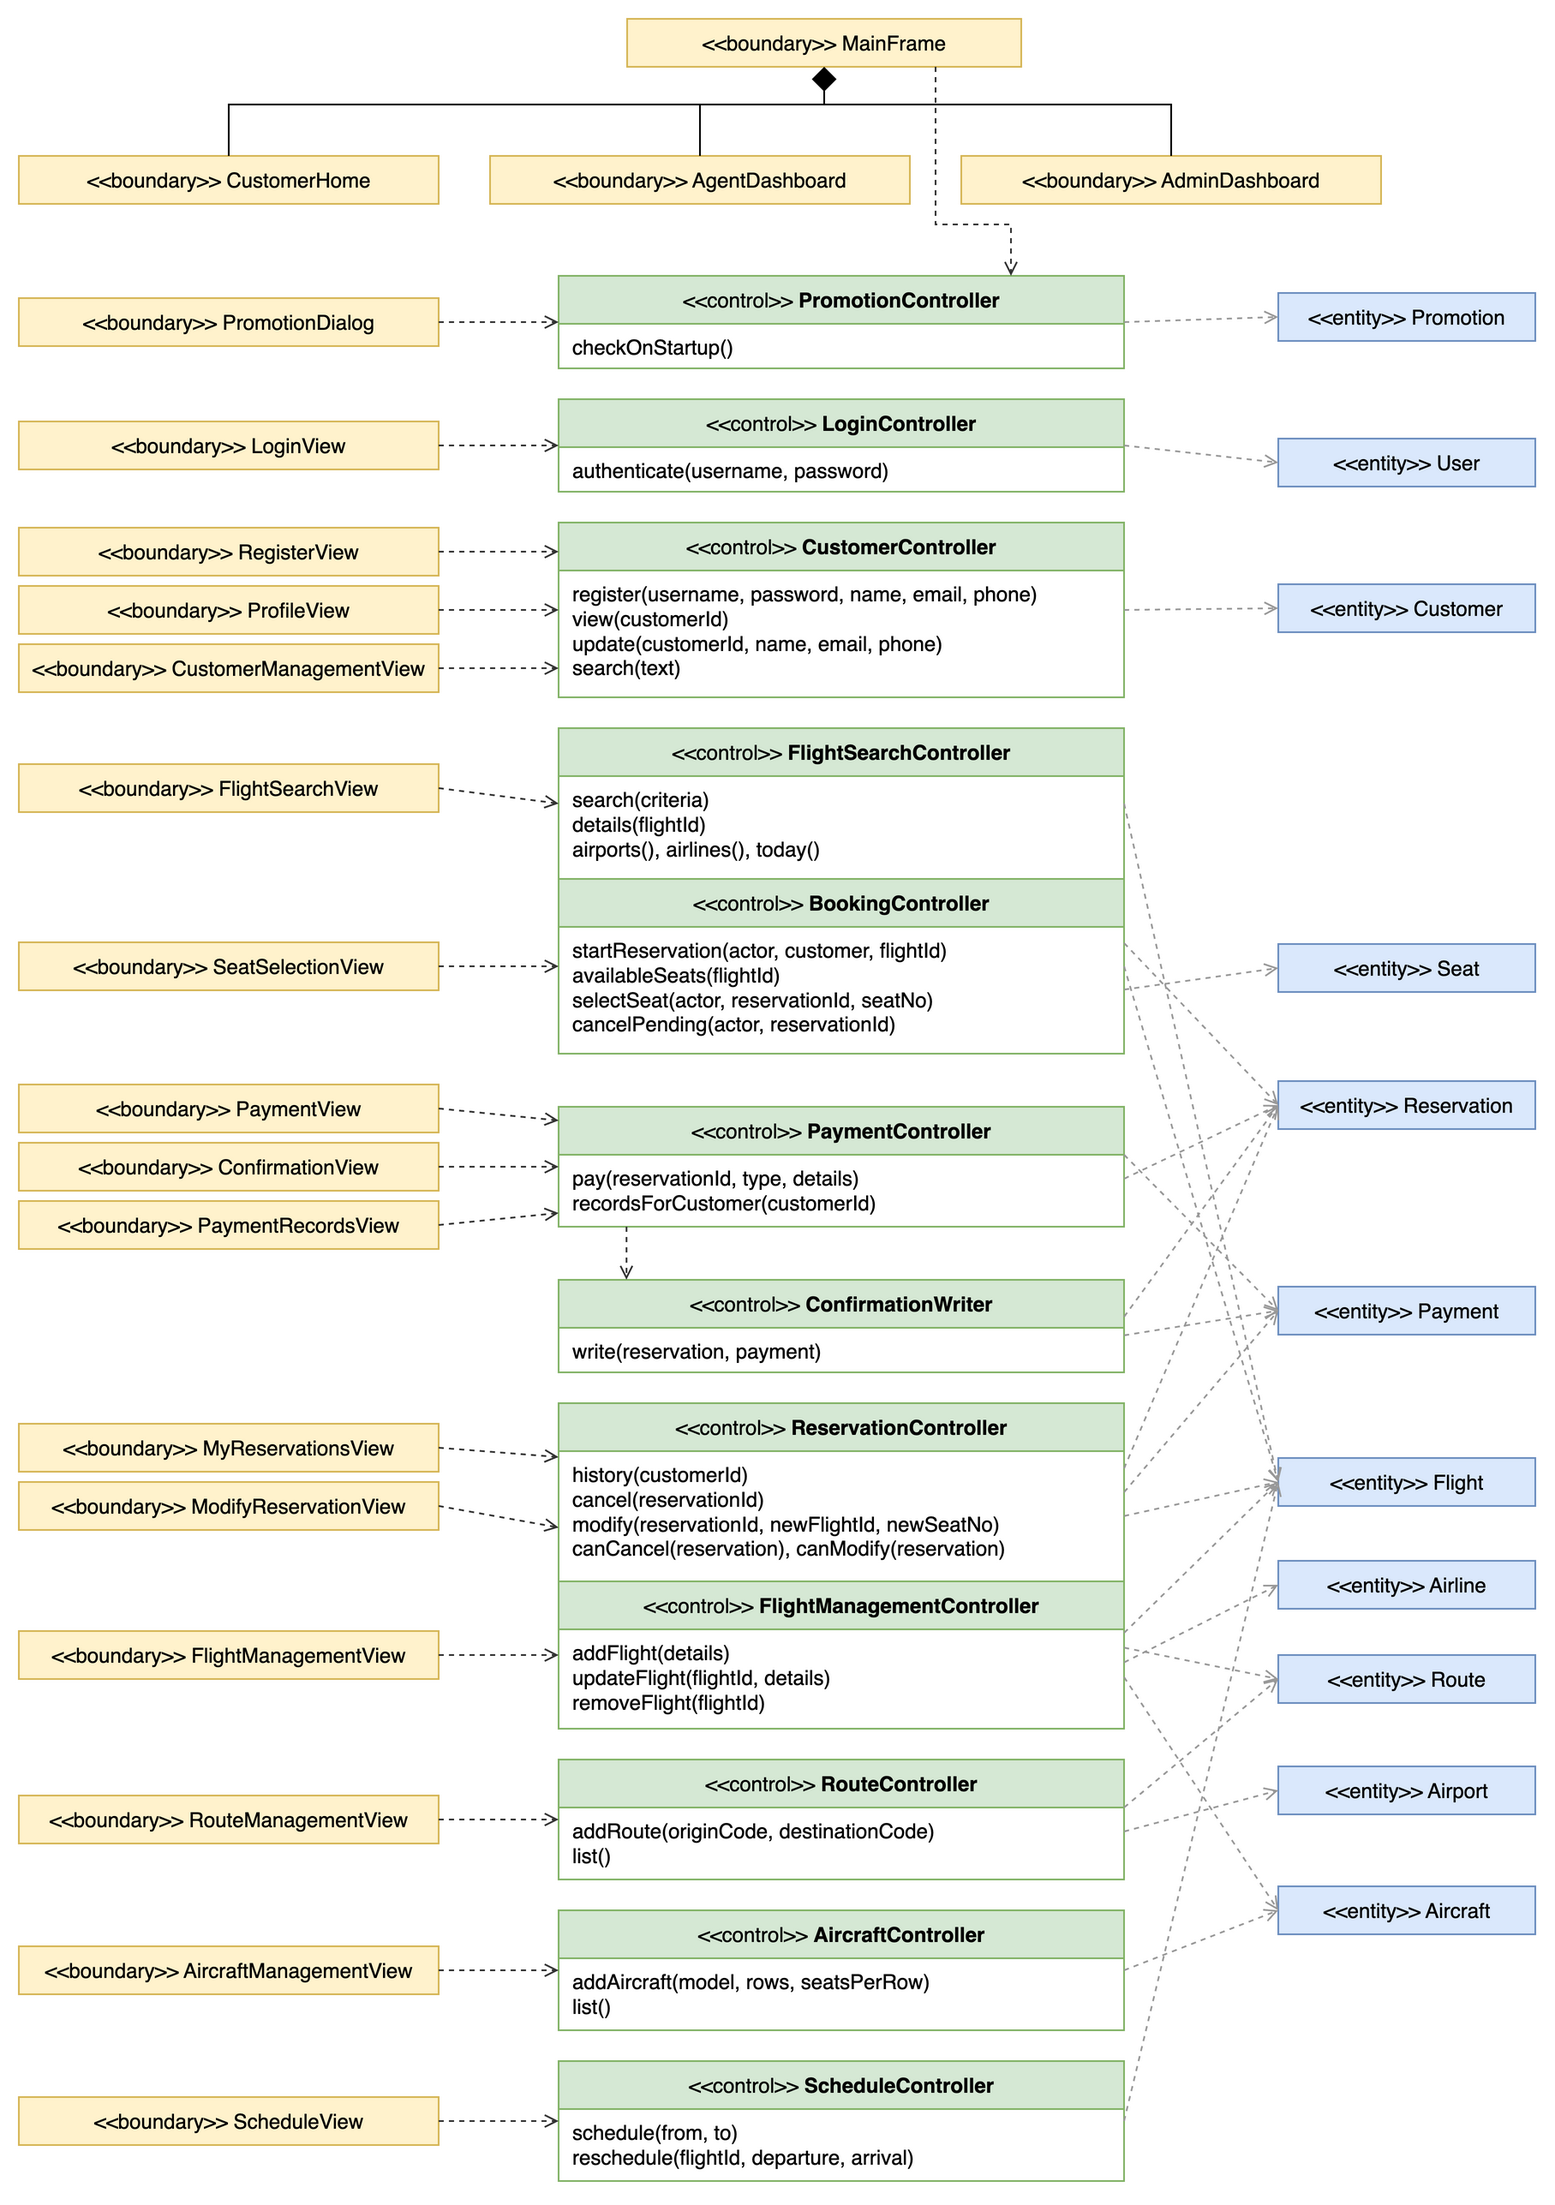
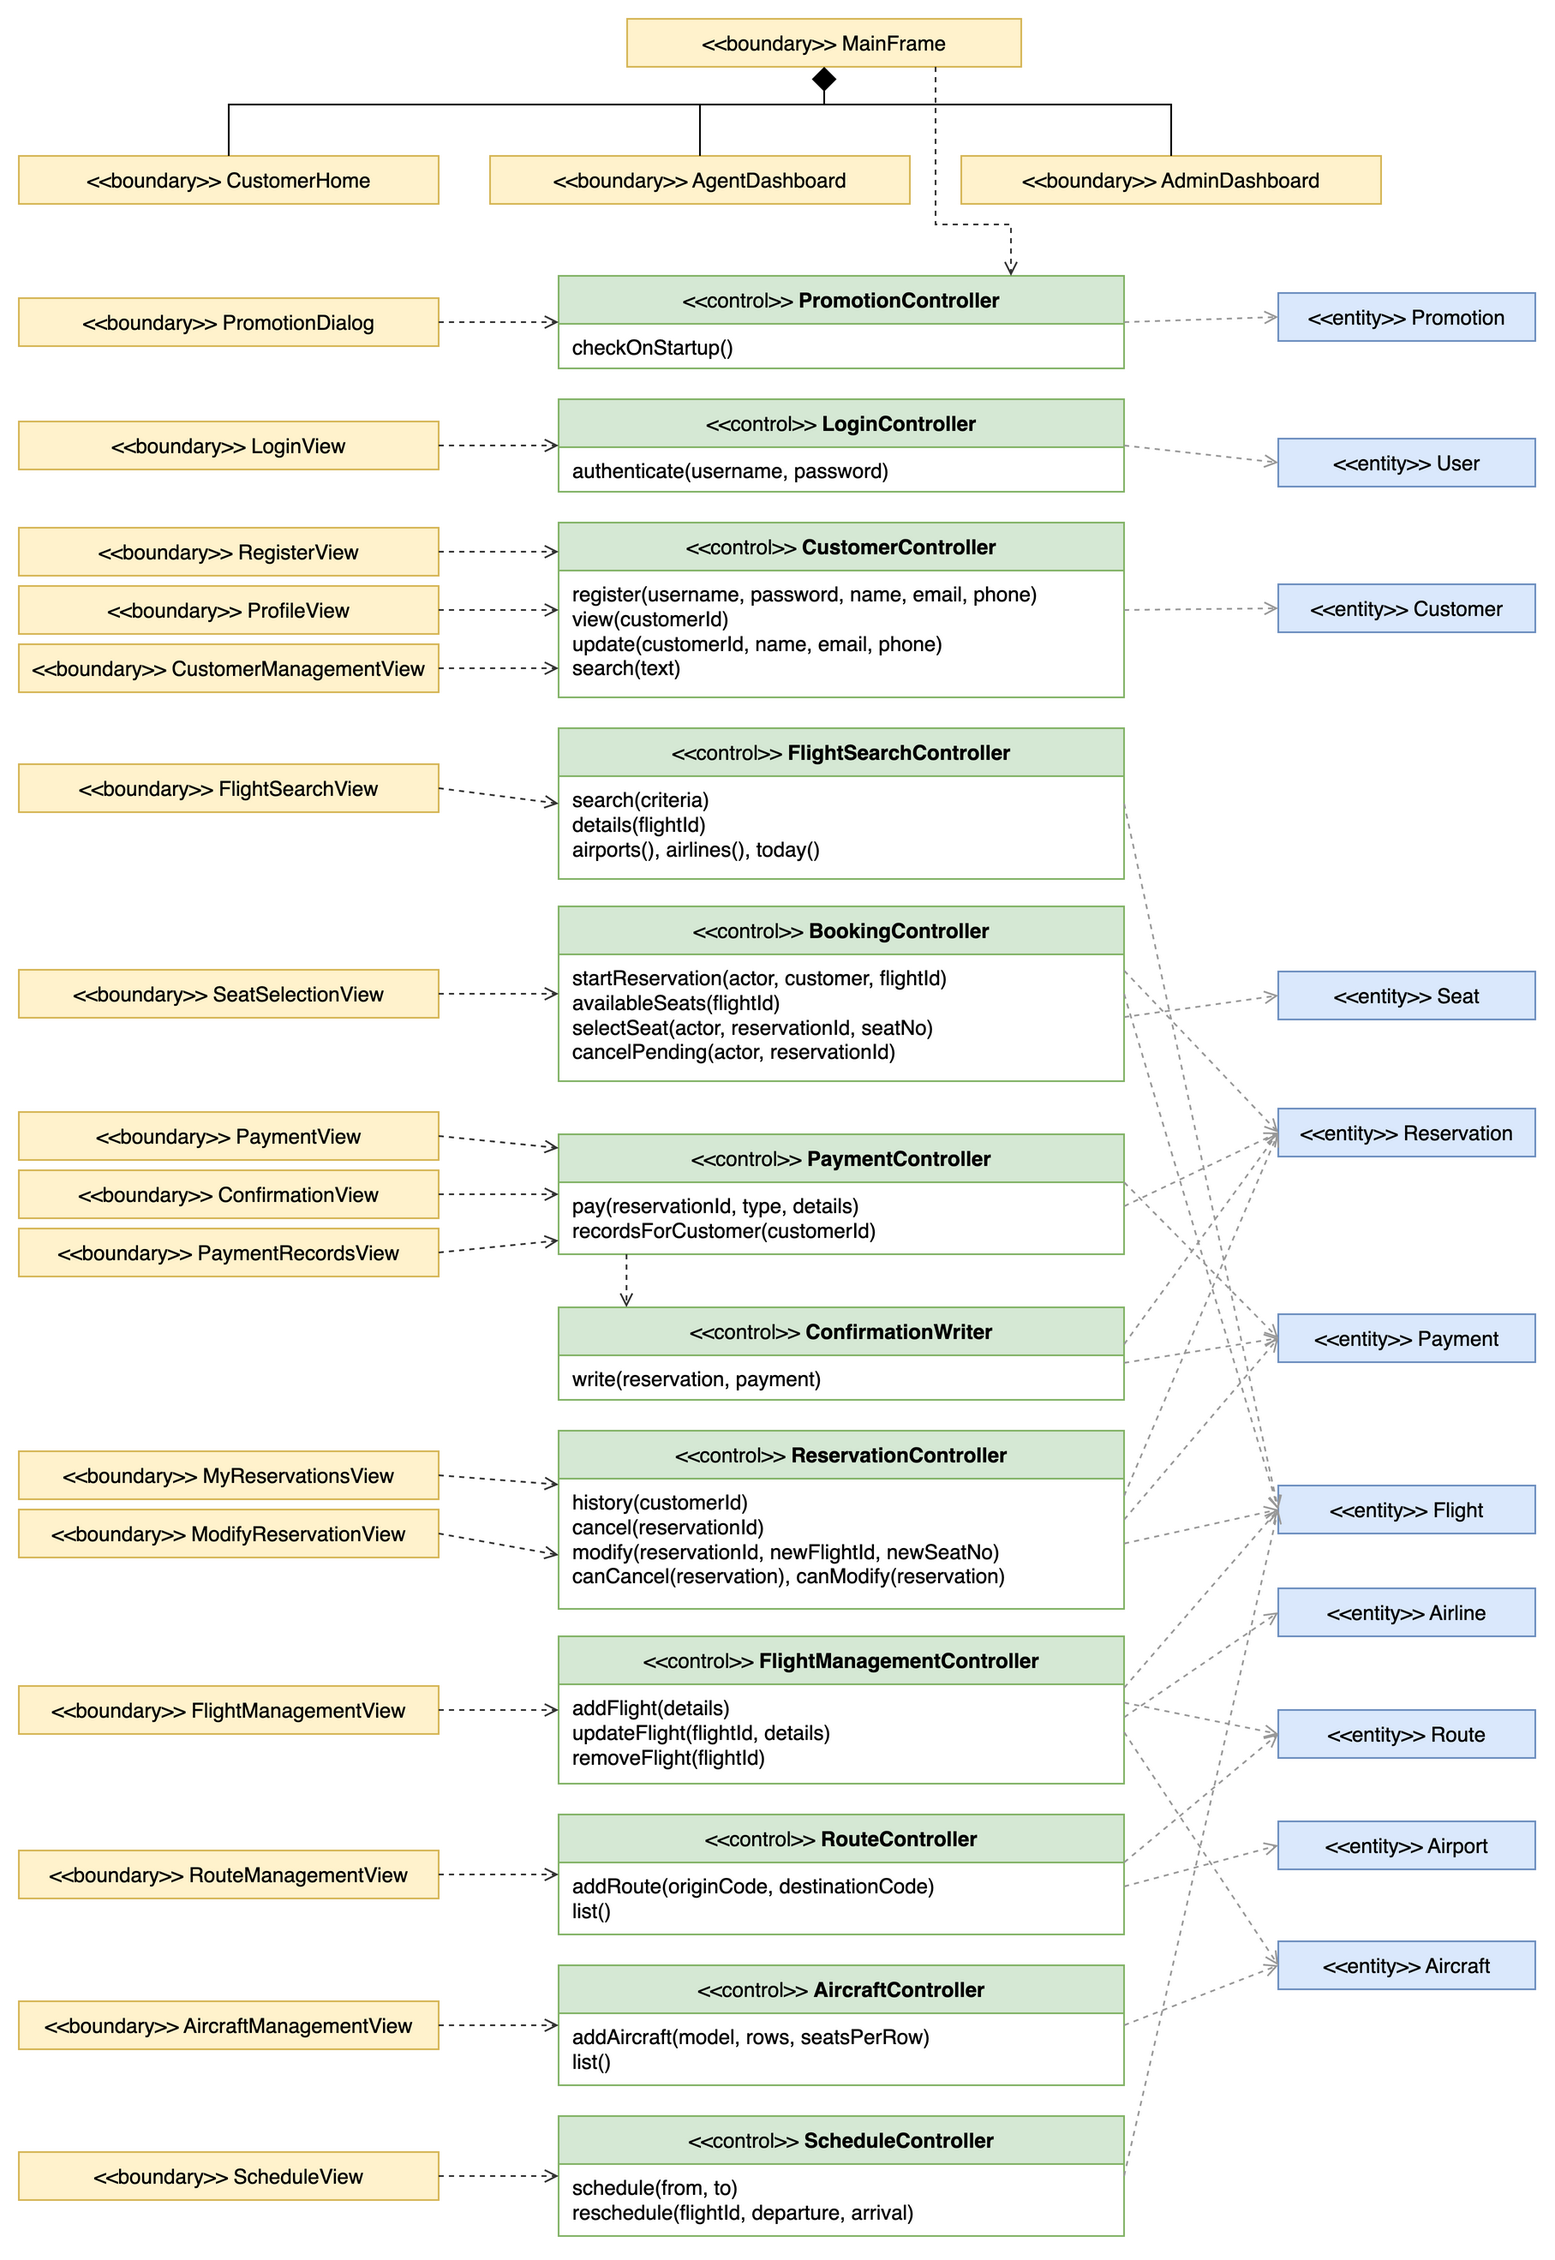
Bring the diagrams, the report and the README in line with the code
Spaced boxes in the control diagram, a clearer remove step, UnitOfWork and a note on public presentation classes in the package diagram, corrected pattern claims, the new operations and classes, and a README that tells how to self-test, build the hand-in and refresh the demo flights.

diff --git a/docs/report/sections/f-class.tex b/docs/report/sections/f-class.tex
@@ -54,7 +54,8 @@ the view (\texttt{enter...}, \texttt{choose...}, \texttt{pick...},
 The first-cut diagrams are refined in two steps: the business layer and the
 data layer. The refinement uses inheritance (the three roles inherit from
 User), realization (interfaces and the classes that implement them),
-composition (a Flight is composed of its Seats) and polymorphism (the
+composition (a Flight is composed of its Seats: they are created with it and deleted with it
+by the database, and the Flight object itself does not hold a list of them) and polymorphism (the
 payment methods and the reservation states), and applies six design patterns.
 The attributes and associations of the entities do not change.
 
@@ -62,8 +63,10 @@ The attributes and associations of the entities do not change.
 
 \begin{description}
 \item[Singleton.] The database file must never be opened twice, so
-  \texttt{DatabaseConnection} has exactly one instance, reached only through
-  \texttt{getInstance()} from the composition root \texttt{AppContext}.
+  \texttt{DatabaseConnection} has exactly one instance for the real database, reached only through
+  \texttt{getInstance()} from the composition root \texttt{AppContext}. The test entry
+  \texttt{forUrl} makes a separate instance for an in-memory database, and only tests and
+  \texttt{SelfTest} use it.
 \item[DAO.] Controllers must not know about SQL, so every entity has a DAO
   interface in the data package, realized by one package-private SQLite class,
   and the database can be replaced without touching a business class;
@@ -77,9 +80,10 @@ The attributes and associations of the entities do not change.
   \texttt{changeFlight}, \texttt{cancel} and \texttt{complete} to a
   \texttt{ReservationState} object, with one class per state as in the
   reservation state diagram.
-\item[Factory.] The code that logs in or registers a user must not name the
+\item[Factory.] The code that rebuilds a user from the database must not name the
   subclasses, so \texttt{UserFactory.\allowbreak create} returns the right subclass of User
-  for a role.
+  for a role; \texttt{SqliteUserDao} is its caller. Registration only ever makes a Customer, so
+  CustomerController creates that class directly.
 \item[Observer.] The monthly promotion must reach the screen without the
   controller knowing about Swing, so PromotionController notifies the
   registered \texttt{PromotionListener}s and MainFrame is the listener that
@@ -123,9 +127,9 @@ dependencies of the data layer.
 \ctl{CustomerController} & CustomerDao, UserDao\\
 \ctl{FlightSearchController} & FlightDao, SeatDao, AirportDao, AirlineDao\\
 \ctl{BookingController} & FlightDao, SeatDao, ReservationDao\\
-\ctl{PaymentController} & ReservationDao, PaymentDao (and ConfirmationWriter)\\
-\ctl{ReservationController} & ReservationDao, PaymentDao, FlightDao, SeatDao (and ConfirmationWriter)\\
-\ctl{FlightManagementController} & FlightDao, SeatDao, RouteDao, AirlineDao, AircraftDao, ReservationDao\\
+\ctl{PaymentController} & ReservationDao, PaymentDao (and ConfirmationWriter, UnitOfWork)\\
+\ctl{ReservationController} & ReservationDao, PaymentDao, FlightDao, SeatDao (and ConfirmationWriter, UnitOfWork)\\
+\ctl{FlightManagementController} & FlightDao, SeatDao, RouteDao, AirlineDao, AircraftDao, ReservationDao (and UnitOfWork)\\
 \ctl{RouteController} & RouteDao, AirportDao\\
 \ctl{AircraftController} & AircraftDao\\
 \ctl{ScheduleController} & FlightDao\\
@@ -139,11 +143,16 @@ no first-cut or refined diagram had. The first three groups are drawn in the
 boxes \emph{Added while coding} of the refined diagrams; the presentation helpers
 only appear in this table. None of them changes a class or an operation of the
 design above. The operations that were added to existing classes are
-\texttt{airports}, \texttt{airlines} and \texttt{today} on FlightSearchController
+\texttt{airports}, \texttt{airlines}, \texttt{today} and \texttt{now} on FlightSearchController
 (the search screen lists airports and airlines through the controller, not a DAO),
 \texttt{canCancel} and \texttt{canModify} on ReservationController (so a screen
-does not repeat the rule), \texttt{isArchived} on FlightDao and
-\texttt{replaceSeats} on SeatDao.
+does not repeat the rule), \texttt{removeRoute} on RouteController and
+\texttt{removeAircraft} on AircraftController (only when no flight uses them, which
+\texttt{isUsed} and \texttt{delete} on RouteDao and AircraftDao check),
+\texttt{isArchived} on FlightDao and \texttt{replaceSeats} on SeatDao. The operations that
+change a reservation (\texttt{startReservation}, \texttt{selectSeat} and
+\texttt{cancelPending}) take the acting user as their first parameter, like the other
+protected operations; the control and sequence diagrams show it for the booking ones.
 
 \begingroup
 \small
@@ -172,6 +181,7 @@ does not repeat the rule), \texttt{isArchived} on FlightDao and
 \ctl{business.entity} & \ctl{StorageException} & base of the database errors, so the screens do not import the data package\\
 \ctl{data} & \ctl{DataAccessException} & a database error with a message; extends StorageException\\
 \ctl{data} & \ctl{ConfirmationWriteException} & the confirmation file could not be written\\
+\ctl{data} & \ctl{UnitOfWork, \allowbreak SqliteUnitOfWork} & keeps several changes together, all or nothing, so a payment and its reservation (or a flight and its seats) are never half saved; used by PaymentController, ReservationController and FlightManagementController\\
 \ctl{data} & \ctl{DatabaseInitializer} & creates the tables from schema.sql (package-private)\\
 \ctl{data} & \ctl{JdbcSupport} & small helpers for queries, updates and transactions (package-private)\\
 \ctl{data} & \ctl{DbDates} & writes and reads dates as ISO text (package-private)\\

diff --git a/docs/report/sections/requirements.tex b/docs/report/sections/requirements.tex
@@ -45,7 +45,7 @@ that meets it, and the automated tests that check it.
 \midrule
 \endhead
 Usability & Every screen of a role is a tab or a button of that role's start screen. A bad input shows one plain sentence that names the field and the problem, never a stack trace. Enter submits the default button and Tab uses Swing's own layout order: no screen overrides it. & A top bar with one tab per task of the role. Shared helpers parse input and phrase errors, so every form behaves the same. & \footnotesize \texttt{NavModelTest}\newline \texttt{KeyboardTraversalTest}\newline \texttt{ScreenDefaultsTest}\newline \texttt{InputParserTest}\newline \texttt{ErrorMessagesTest}\\
-Portability & Running the jar with the argument \texttt{-{}-selftest} prints \texttt{SELFTEST OK} and exits with 0. The jar needs only Java 17. The database is created on first run, with no installer. & Standalone Swing application, embedded SQLite, one jar that holds every dependency. & \footnotesize \texttt{SelfTestTest}\newline \texttt{MainFrameSmokeTest}\newline the build workflow runs on Linux with Java 17; window tests need a display and are skipped there\\
+Portability & Running the jar with the argument \texttt{-{}-selftest} prints \texttt{SELFTEST OK} and exits with 0. The jar needs only Java 17. The database is created on first run, with no installer. & Standalone Swing application, embedded SQLite, one jar that holds every dependency. & \footnotesize \texttt{SelfTestTest}\newline \texttt{MainFrameSmokeTest}\newline the build workflow runs on Linux with Java 17 under a virtual display, so the window tests run there too\\
 Maintainability & 0 Checkstyle violations on every build. The layers depend only downward, and ArchUnit tests fail the build if they do not. & Presentation, business (control and entity) and data packages. Class names match the class diagram. & \footnotesize \texttt{ArchitectureTest}\newline Checkstyle in every \texttt{mvn verify}\\
 Scalability & Replacing SQLite changes only the data package: presentation and business classes have no \texttt{java.sql} or \texttt{Sqlite*} dependency. Controllers contain no Swing code. & DAO interfaces with package-private SQLite classes behind a factory. Controllers take their DAOs through the constructor. & \footnotesize \texttt{ArchitectureTest}\newline \texttt{DaoFactoryTest}\\
 Reusability & Every entity and controller runs without Swing and without a display. The controller tests and the end-to-end test pass on a machine with no screen. Entities need no database. & Entities know nothing about the other layers. Controllers receive their DAOs and a clock instead of creating them. & \footnotesize \texttt{BookingControllerTest}\newline \texttt{PaymentControllerTest}\newline \texttt{EndToEndFlowTest}\newline \texttt{AppContextTest}\\

diff --git a/docs/report/sections/g-package.tex b/docs/report/sections/g-package.tex
@@ -38,15 +38,16 @@ architecture test (\texttt{ArchitectureTest}) checks.
 \item Public: the controllers and Authorizer, SessionContext
   and PromotionListener; the entities, the enumerations, UserFactory
   and PaymentMethods with its PaymentMethod interface;
-  the DAO interfaces, DaoFactory, DatabaseConnection,
+  the DAO interfaces, UnitOfWork, DaoFactory, DatabaseConnection,
   DatabaseSeeder and ConfirmationWriter; PasswordHasher;
-  MainFrame.
+  MainFrame, SplashWindow, Theme and Brand, which the entry point uses.
 \item Package-private: the twelve Sqlite\dots Dao classes, which only
-  DaoFactory creates and everyone else reaches through the interface;
+  DaoFactory creates and everyone else reaches through the interface (SqliteUnitOfWork too);
   the five Reservation state classes and ReservationState, which only
   Reservation uses; CreditCardPayment and DebitCardPayment,
-  which only PaymentMethods creates; and the views and dashboards,
-  which only MainFrame and the other views use.
+  which only PaymentMethods creates; PricingPolicy, which only Flight uses; and the
+  views, dashboards and helpers such as Navigator and ViewId, which only MainFrame and the
+  other presentation classes use.
 \end{itemize}
 
 Small helper and value types that the implementation adds inside a package, for

diff --git a/docs/report/sections/d-sequence.tex b/docs/report/sections/d-sequence.tex
@@ -63,6 +63,9 @@ are saved through FlightDao, and the seats of the aircraft are created through
 SeatDao. In the second half, the administrator removes a flight. The controller
 asks ReservationDao for the number of active reservations. If there are any,
 the removal is blocked with an error. If there are none, the controller deletes
-the flight or, when old reservations refer to it, archives it.
+the flight or, when old reservations refer to it, archives it. A flight that has already
+left is settled first: its confirmed reservations are completed and the ones that were
+never paid are cancelled, so it can be removed even if nobody has opened their history.
+The steps are one unit, so a failure leaves the flight and its reservations as they were.
 
 \diagramland{33-sequence-manage-flights}{Sequence diagram: manage flights (UC-14)}{fig:seqflights}

diff --git a/README.md b/README.md
@@ -18,7 +18,8 @@ java -jar target/ChinookAir.jar
 
 The first start creates a database in `~/.chinookair/chinookair.db` with demo
 flights for the next 60 days, 12 promotions and three accounts. Move the file
-with `-Dchinookair.db=/path/to/file.db`.
+with `-Dchinookair.db=/path/to/file.db`. The flights are made once, on that first start, and cover 60 days: to get a fresh set later, delete the
+file (or point `-Dchinookair.db` at a new one).
 
 | Role | Username | Password |
 |---|---|---|
@@ -54,16 +55,32 @@ Three layers, one package each:
 ```
 src/main/java/ca/ucalgary/chinookair/
 ├── ChinookAir.java          entry point
+├── AppContext.java          builds the controllers and DAOs (the only place that does)
+├── SelfTest.java            the check behind --selftest
 ├── presentation/            Swing screens (boundary)
 ├── business/
 │   ├── control/             controllers, one per use case
 │   └── entity/              domain classes
-└── data/                    SQLite connection + DAOs
+├── data/                    SQLite connection + DAOs
+└── util/                    password hashing
 docs/                        design document and UML diagrams
 ```
 
 Screens call controllers, controllers use entities and DAOs.
 Nothing in `presentation` should touch the database directly.
+
+## Self-test and hand-in
+
+```
+java -jar target/ChinookAir.jar --selftest
+```
+
+opens a throw-away in-memory database, logs in as the demo customer, searches for a flight and prints
+`SELFTEST OK` (exit code 0), without opening a window or touching your own database.
+
+`make pdf` builds the design report (`docs/report/main.pdf`) and `make submission` runs the tests and writes
+`dist/ChinookAir-submission.zip` with the jar and a ZIP of the sources, plus a copy of the design PDF.
+`-Dchinookair.today=2027-02-01` fixes the date of the program, for trying out the monthly promotion.
 
 ## Tests and style checks
 
